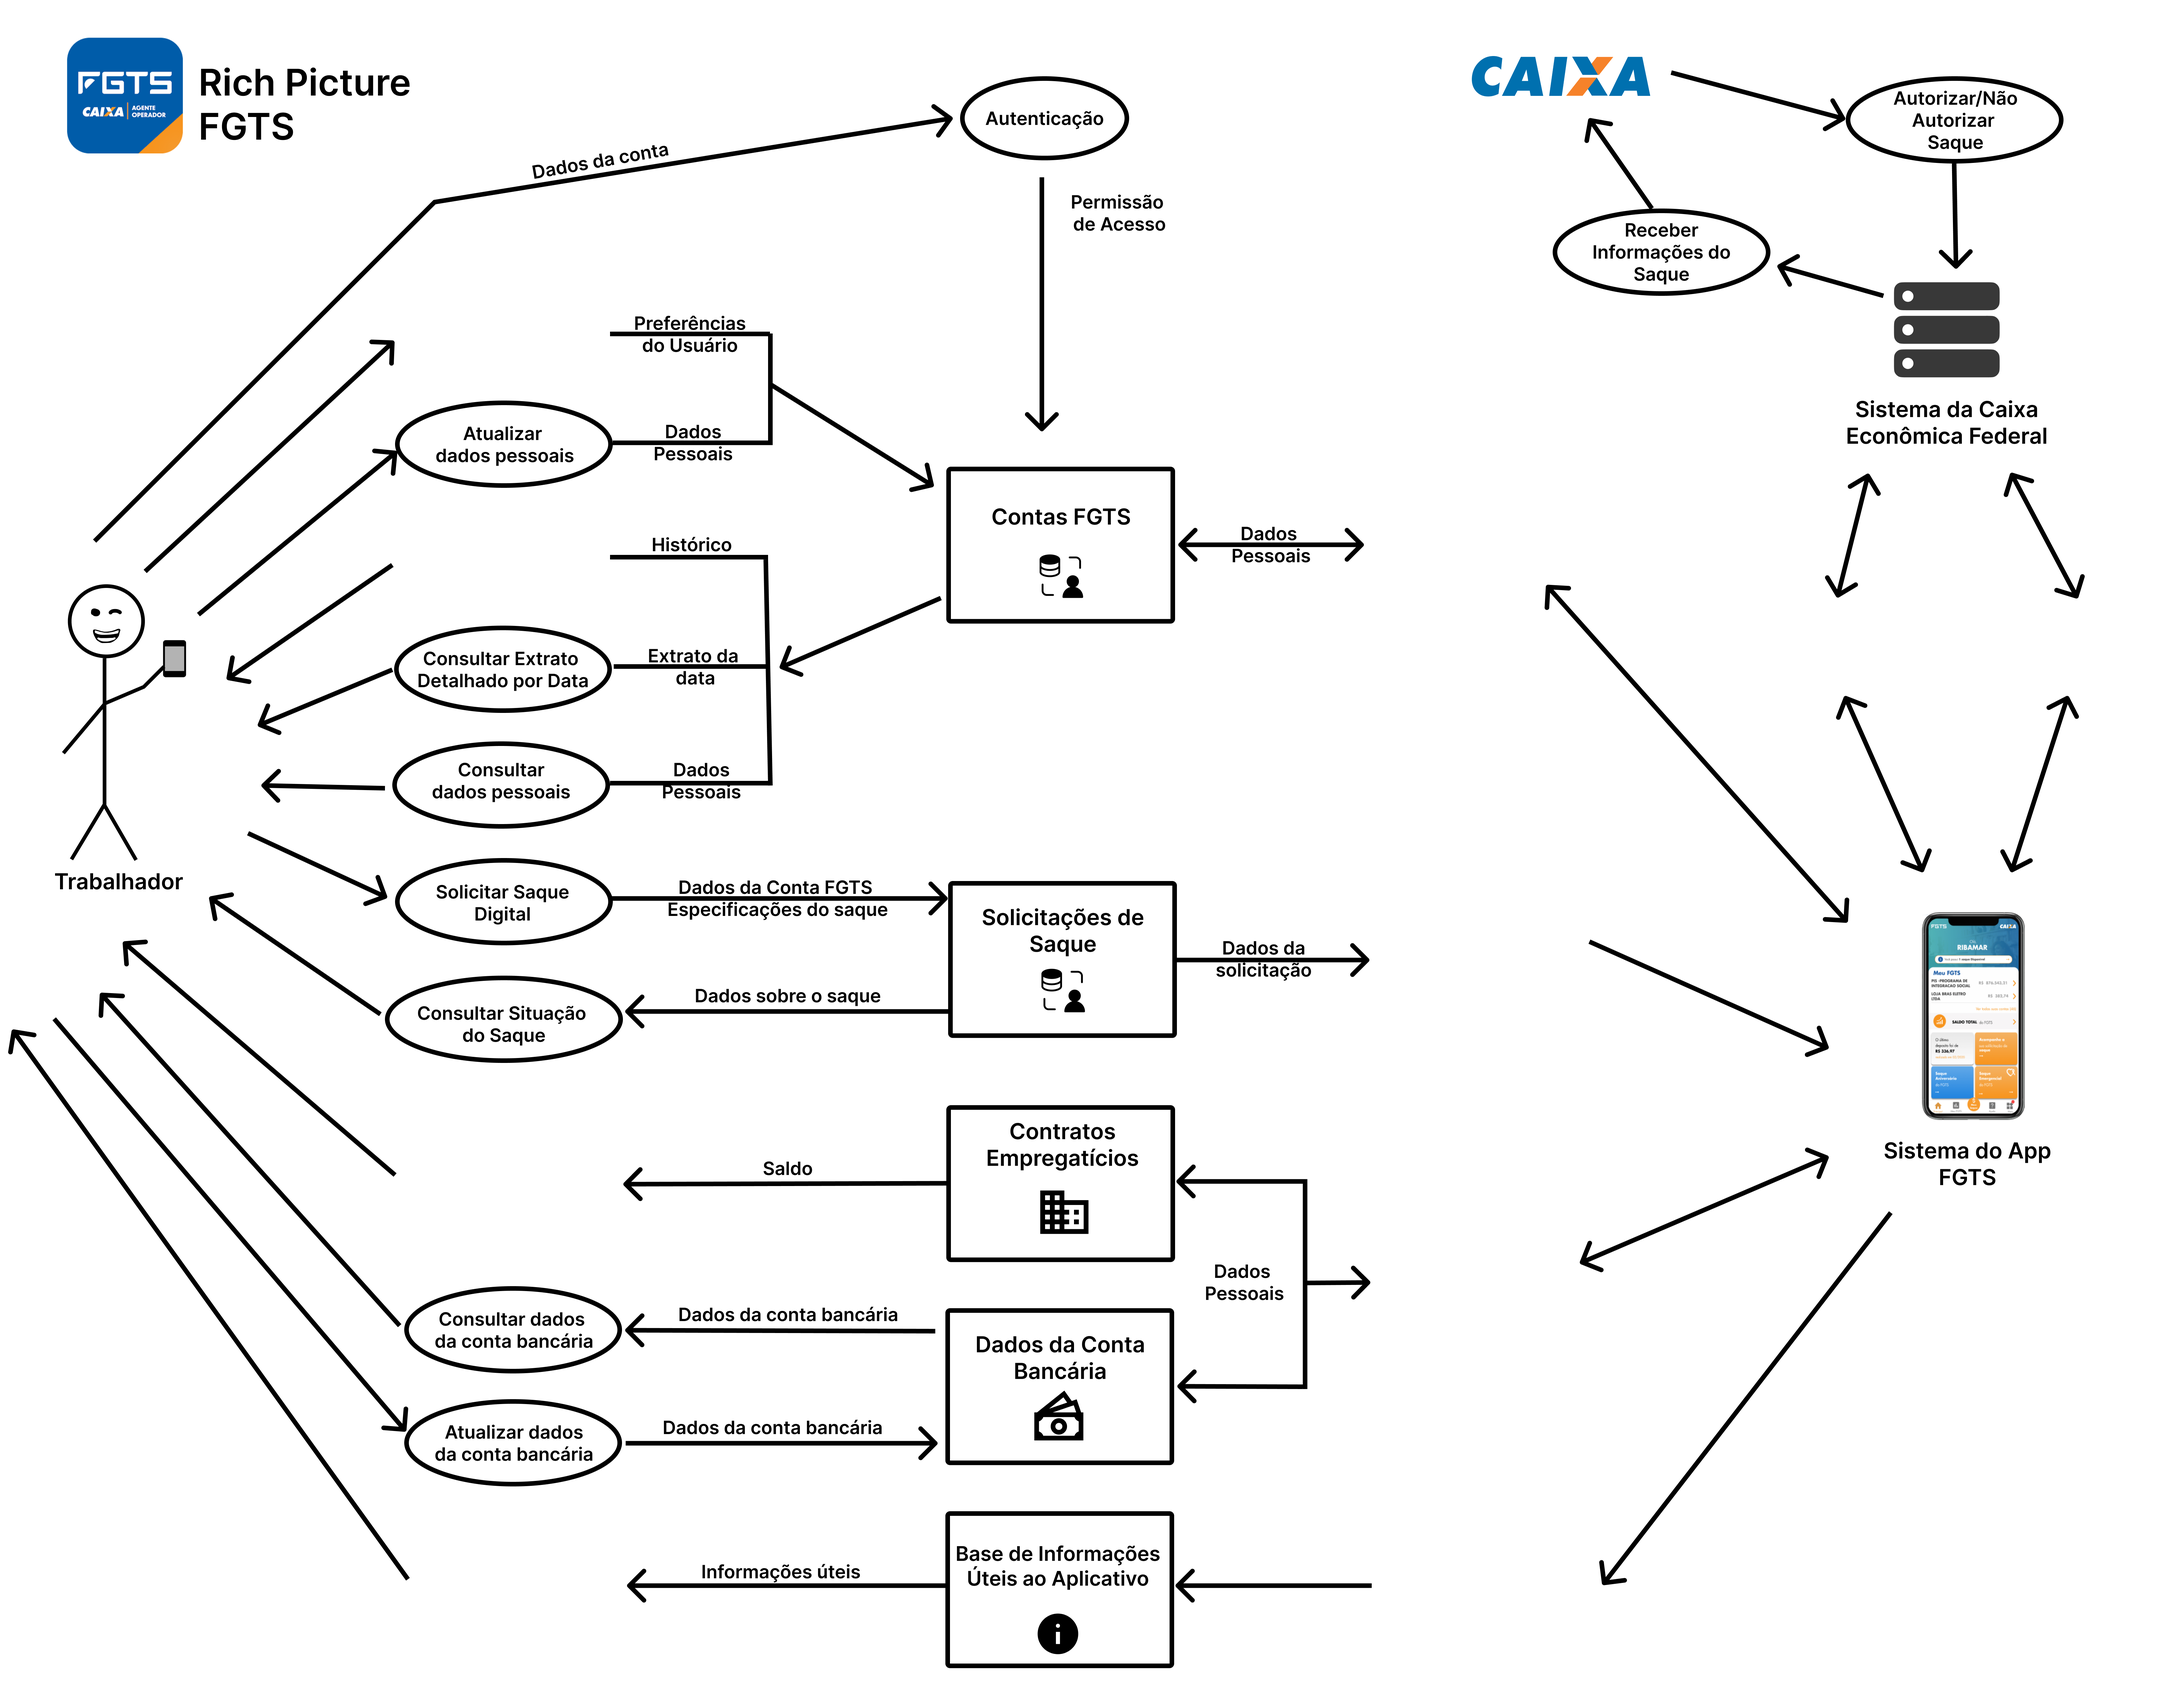
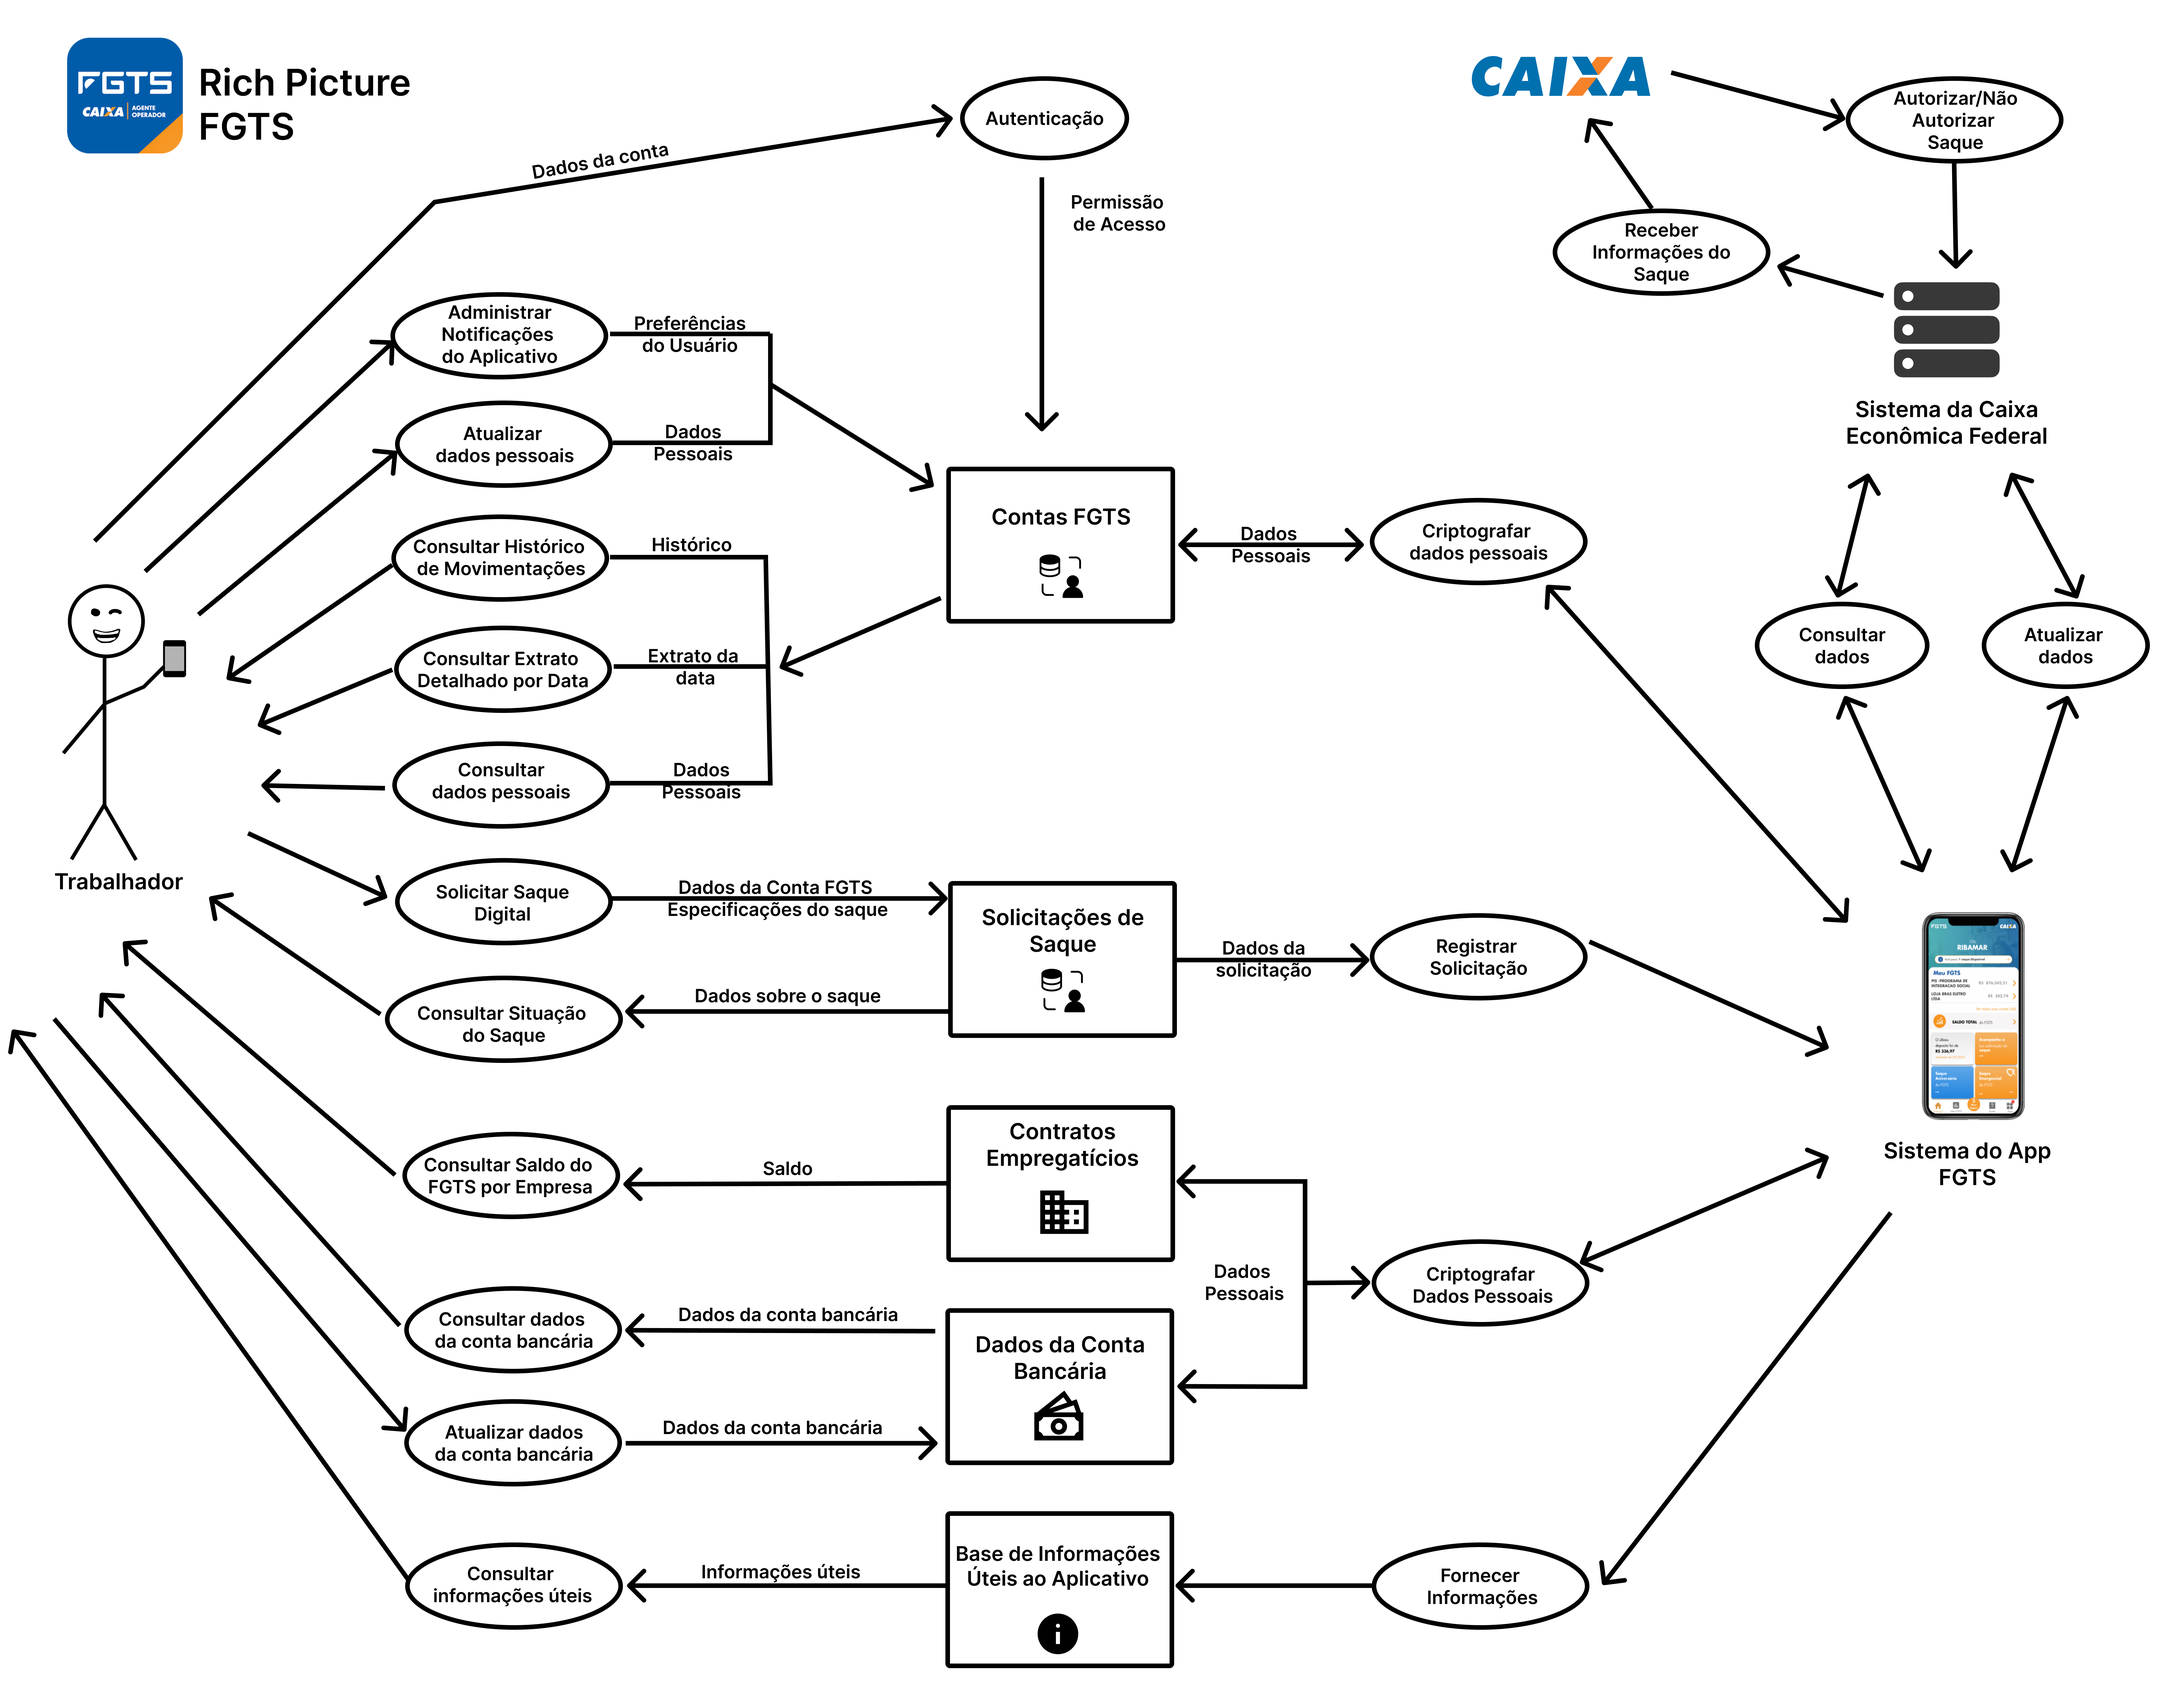
fix: rich picture

diff --git a/docs/Pré-Rastreabilidade/Rich_Picture.md b/docs/Pré-Rastreabilidade/Rich_Picture.md
@@ -1,0 +1,39 @@
+# Rich Picture
+
+## O que é?
+
+Rich Picture <a id="TEC1" href="#RP1">^1^</a> é uma técnica visual utilizada na análise de sistemas para representar, de forma livre e informal, a visão geral de um problema, seus atores (quem participa do sistema), operações (o que é feito ou quais ações ocorrem no sistema), armazenamento de dados (onde e como as informações são guardadas), setas (fluxo de informação, comunicação ou influência entre os elementos) e fronteira do sistema (limites do que está sob controle dos desenvolvedores ou do escopo do sistema). Ele é frequentemente usado na fase inicial da modelagem de sistemas. 
+
+## Metodologias e Ferramentas
+
+Para a elaboração deste artefato, foi realizado um estudo do ambiente do aplicativo E-Título, com testes e análises de suas funcionalidades. A síntese foi representada por meio de um rich picture, elaborado com a ferramenta Figma, juntamente com sua respectiva legenda.
+
+## Resultados
+
+A seguir, a Figura 1 mostra o Rich Picture desenvolvido para o aplicativo do FGTS. A Figura 2 corresponde à legenda do Rich Picture.
+
+<br>
+
+![Rich Picture V1](../assets/rich-pictures-finais/richPictureV3-fgts.png)
+<div style="text-align: center;">
+    Figura 1:  Rich Picture (Fonte: Danielle Soares, 2025)
+</div>
+
+<br>
+
+![Legenda Rich Picture](../assets/rich-pictures-finais/richPicutreV2Legenda.jpeg)
+<div style="text-align: center;">
+    Figura 2: Legenda do Rich Picture (Fonte: Danielle Soares, 2025)
+</div>
+
+## Referências
+
+> <a id="RP1" href="#TEC1">1.</a> MONK, Andrew; HOWARD, Steve. The Rich Picture: A Tool for Reasoning About Work Context. 1998.  Disponível em: <<https://ics.uci.edu/~wscacchi/Software-Process/Readings/RichPicture.pdf>>. Acesso em: 12/04/2025.
+
+
+## Histórico de Versões 📅
+
+| Versão | Data | Descrição | Autor(es) | Revisor(es) |
+| :-: | :-: | :-: | :-------------: | :-: |
+| `1.0` | 12/04/2025 | Metodologias e Ferramentas, Resultados e Referências | [Danielle Soares](https://github.com/danielle-soaress) | [Victor Pontual](https://github.com/VictorPontual) |
+| `1.1` | 03/05/2025 | Atualização do Rich Picture | [Danielle Soares](https://github.com/danielle-soaress), [Maria Eduarda](https://github.com/dudaa28) | |
